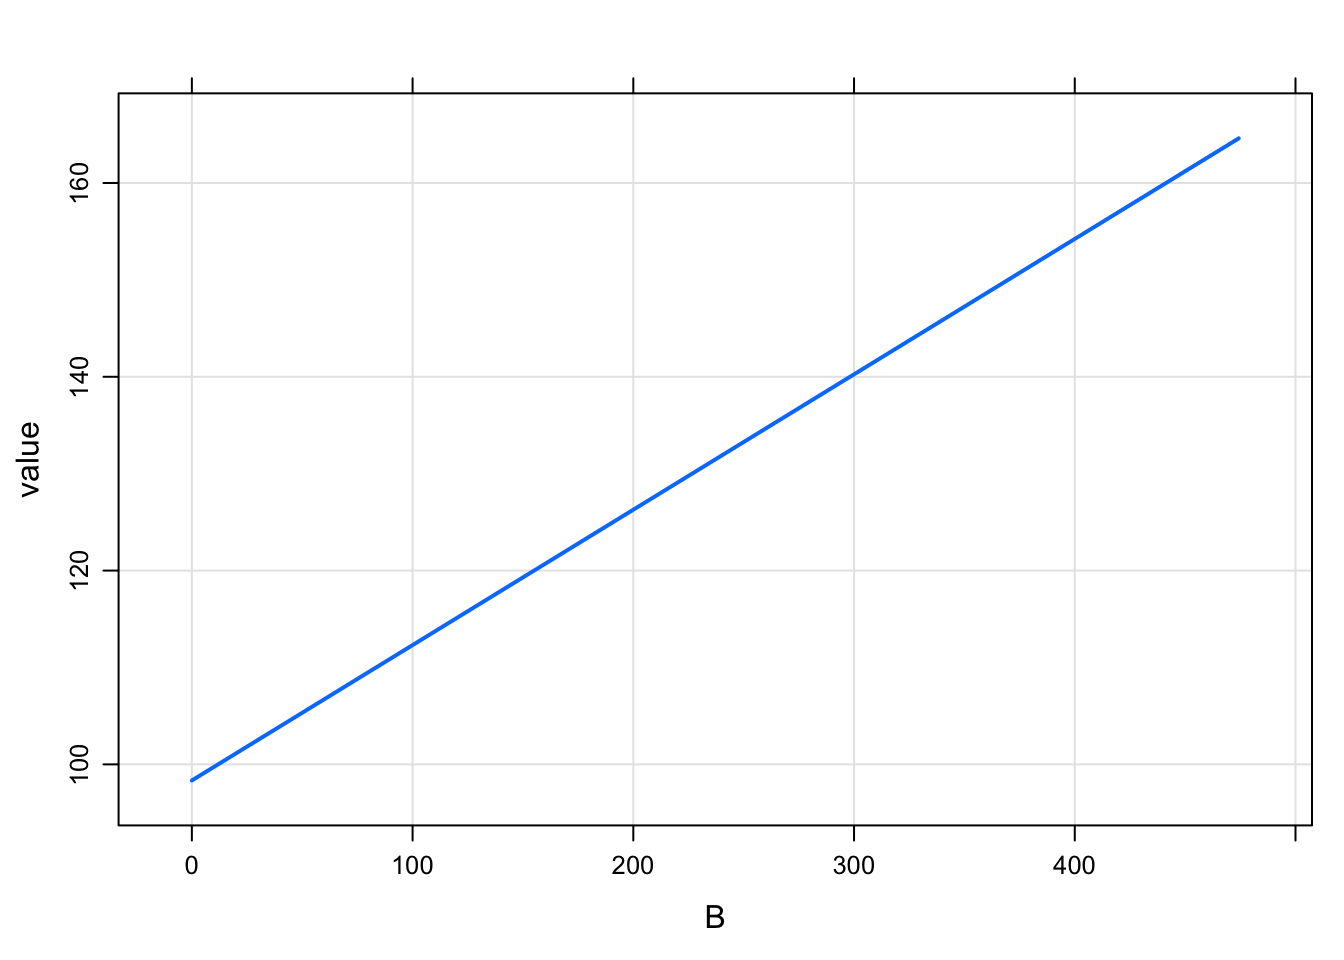
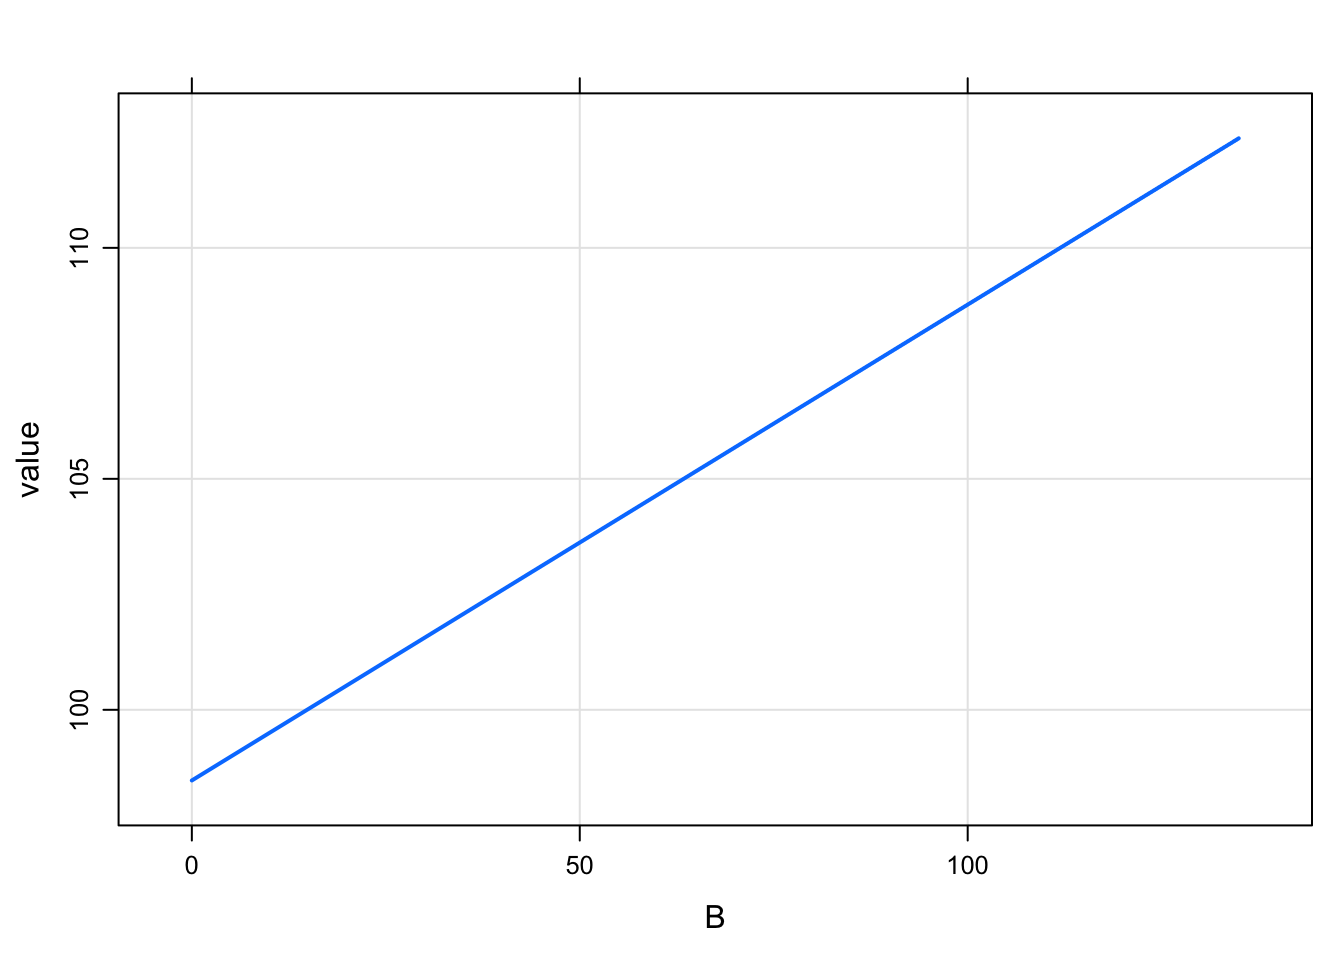
vignette

diff --git a/docs/dollar_pred.html b/docs/dollar_pred.html
@@ -483,7 +483,7 @@ div.tocify {
 <h1><span class="header-section-number">2</span> Example model</h1>
 <p>As a most-basic model, we look at the <code>pred1</code> model in <code>modlib()</code></p>
 <div class="sourceCode"><pre class="sourceCode r"><code class="sourceCode r"><span class="kw">library</span>(mrgsolve)
-mod &lt;-<span class="st"> </span><span class="kw">mread</span>(<span class="st">&quot;pred1&quot;</span>, <span class="kw">modlib</span>())</code></pre></div>
+mod &lt;-<span class="st"> </span><span class="kw">mread_cache</span>(<span class="st">&quot;pred1&quot;</span>, <span class="kw">modlib</span>())</code></pre></div>
 <p>The model code is</p>
 <div class="sourceCode"><pre class="sourceCode c"><code class="sourceCode c">$PROB
 An example model expressed in closed form
@@ -501,14 +501,14 @@ data &lt;-<span class="st"> </span><span class="kw">data_frame</span>(<span clas
 
 <span class="kw">head</span>(data)</code></pre></div>
 <pre><code>. # A tibble: 6 x 2
-.      ID      B
-.   &lt;dbl&gt;  &lt;dbl&gt;
-. 1     1  0.469
-. 2     1  0.649
-. 3     1 10.6  
-. 4     1  0.515
-. 5     1 19.5  
-. 6     1  0.192</code></pre>
+.      ID        B
+.   &lt;dbl&gt;    &lt;dbl&gt;
+. 1     1 12.4    
+. 2     1  3.47   
+. 3     1  2.41   
+. 4     1  0.199  
+. 5     1  1.19   
+. 6     1  0.00726</code></pre>
 <div class="sourceCode"><pre class="sourceCode r"><code class="sourceCode r">out &lt;-<span class="st"> </span><span class="kw">mrgsim_d</span>(mod,data,<span class="dt">carry.out=</span><span class="st">&quot;B&quot;</span>)
 
 <span class="kw">plot</span>(out, Y<span class="op">~</span>B)</code></pre></div>
@@ -555,7 +555,7 @@ df &lt;-<span class="st"> </span><span class="kw">map_df</span>(<span class="dv"
 <span class="st">capture AUC = DOSE/CL;</span>
 <span class="st">capture Y = E0*(1+EMAX*AUC/(AUC50+AUC))+EPS(1);</span>
 <span class="st">&#39;</span></code></pre></div>
-<div class="sourceCode"><pre class="sourceCode r"><code class="sourceCode r">mod &lt;-<span class="st"> </span><span class="kw">mcode</span>(<span class="st">&quot;pkpd&quot;</span>, code)</code></pre></div>
+<div class="sourceCode"><pre class="sourceCode r"><code class="sourceCode r">mod &lt;-<span class="st"> </span><span class="kw">mcode_cache</span>(<span class="st">&quot;pkpd&quot;</span>, code)</code></pre></div>
 <p>To simulate, look at 50 subjects at each of 5 doses</p>
 <div class="sourceCode"><pre class="sourceCode r"><code class="sourceCode r">data &lt;-<span class="st"> </span>
 <span class="st">  </span><span class="kw">expand.idata</span>(<span class="dt">DOSE =</span> <span class="kw">c</span>(<span class="dv">30</span>,<span class="dv">50</span>,<span class="dv">80</span>,<span class="dv">110</span>,<span class="dv">200</span>),<span class="dt">ID =</span> <span class="dv">1</span><span class="op">:</span><span class="dv">50</span>) <span class="op">%&gt;%</span><span class="st"> </span>

diff --git a/docs/01-get-started.html b/docs/01-get-started.html
@@ -489,7 +489,7 @@ div.tocify {
 . -------- mrgsolve model object (unix) --------
 .   Project: /Users/kyleb/Rli...gsolve/models
 .   source:        pk1.cpp
-.   shared object: pk1-so-162b114c2567d 
+.   shared object: pk1-so-167c1686bbe5 
 . 
 .   Time:          start: 0 end: 24 delta: 1
 .   &gt;              add: &lt;none&gt;
